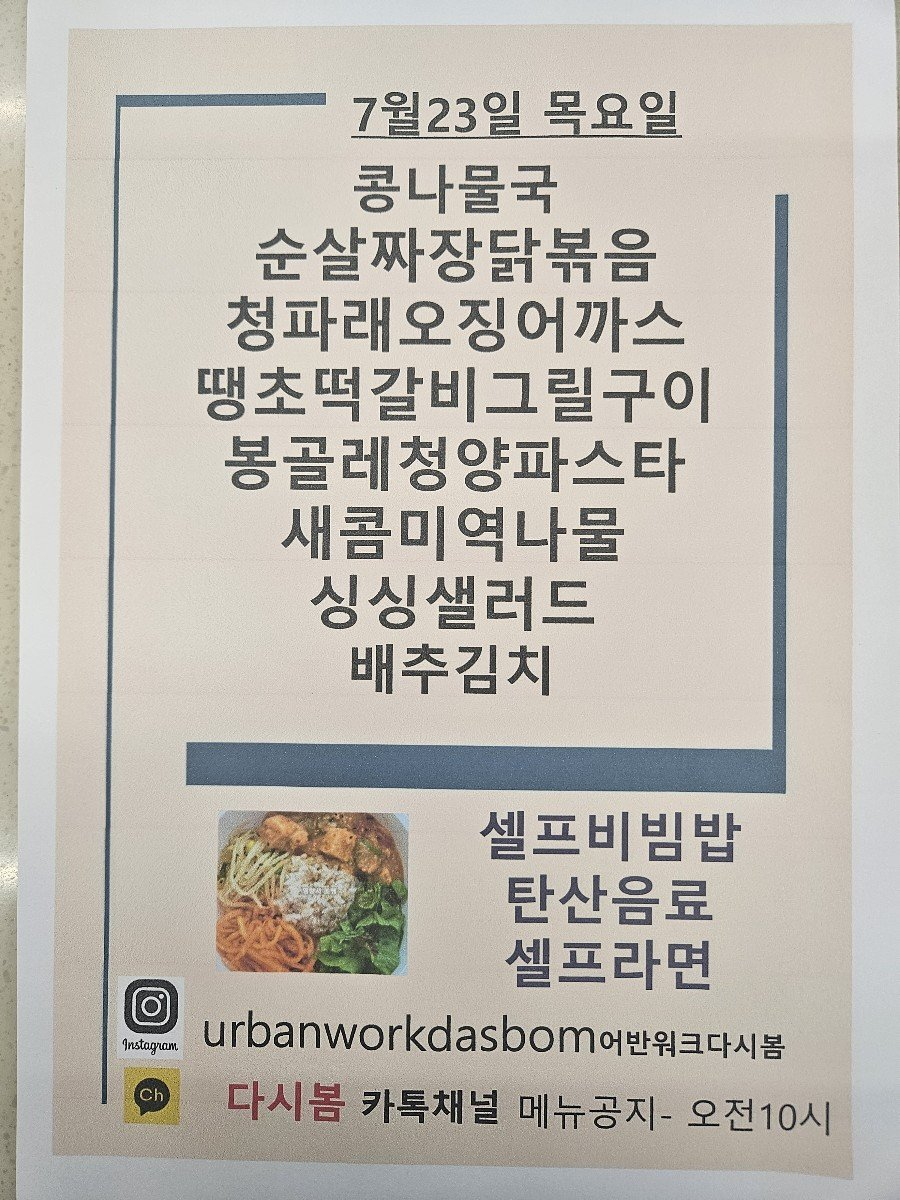
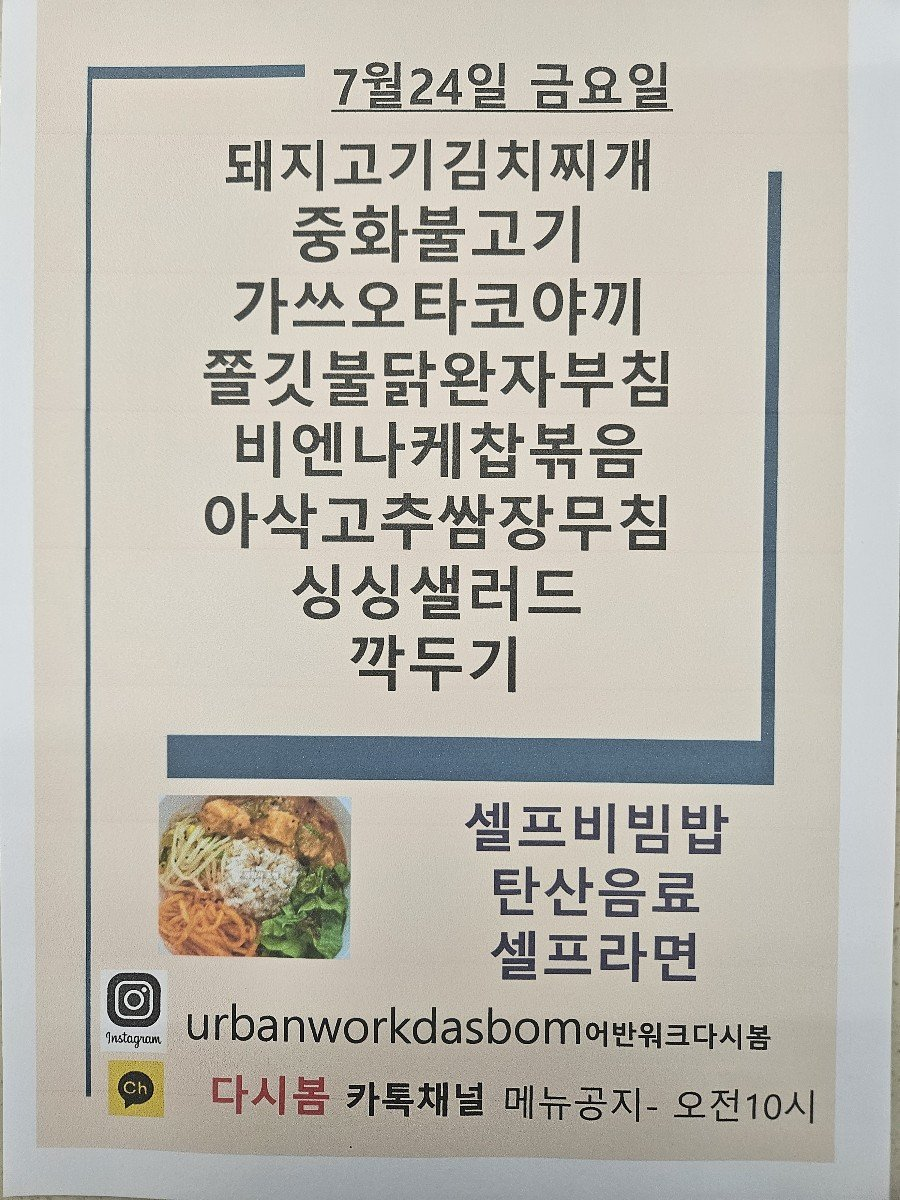
Update menu board assets

diff --git a/menu-today/index.html b/menu-today/index.html
@@ -209,7 +209,7 @@
 
     <section class="meta-bar">
       <div class="meta-card"><div class="meta-label">기준 날짜</div><div class="meta-value">2026년 7월 24일 금요일</div></div>
-      <div class="meta-card"><div class="meta-label">최종 가져온 시간</div><div class="meta-value">2026-07-24 09:03:15</div></div>
+      <div class="meta-card"><div class="meta-label">최종 가져온 시간</div><div class="meta-value">2026-07-24 09:13:14</div></div>
       <div class="meta-card"><div class="meta-label">확인 완료</div><div class="meta-value">9개 식당</div></div>
       <div class="meta-card"><div class="meta-label">준비중</div><div class="meta-value">3개 채널</div></div>
     </section>
@@ -235,7 +235,7 @@
             <div class="sub">가산 어반워크</div>
           </div>
         </div>
-        <div class="menu-inline-image"><img src="./images/dasibom.png" alt="다시 봄 식단 이미지"></div><ul><li>순살짜장닭볶음</li><li>정파래오징어까스</li><li>보공 O 파 x !</li><li>증글레청양파스트</li><li>새콤미역나물</li><li>싱싱샐러드</li><li>순살짜</li><li>청파래오징어까스</li></ul>
+        <div class="menu-inline-image"><img src="./images/dasibom.png" alt="다시 봄 식단 이미지"></div><ul><li>돼지고기김치찌개</li><li>중화불고기</li><li>가쓰오타코야끼</li><li>졸깃불닭완자부침</li><li>비엔나케잡볶음</li><li>아삭고추된장무침</li><li>싱싱샐러드</li><li>각두기</li></ul>
       </article>
 
       <article class="restaurant-card">

diff --git a/guro-menu/index.html b/guro-menu/index.html
@@ -32,7 +32,7 @@
   </header>
   <section class="meta">
     <div><small>기준 날짜</small><strong>2026년 7월 24일 금요일</strong></div>
-    <div><small>최종 갱신</small><strong>2026-07-24 09:03:27</strong></div>
+    <div><small>최종 갱신</small><strong>2026-07-24 09:13:25</strong></div>
     <div><small>등록 식당</small><strong>5개</strong></div>
   </section>
   <div class="notice">공개 카카오 채널의 메뉴 이미지를 자동 수집하고 OCR로 정리합니다. 텍스트에 오타가 있을 수 있으니 식단 이미지를 함께 확인해 주세요.</div>
